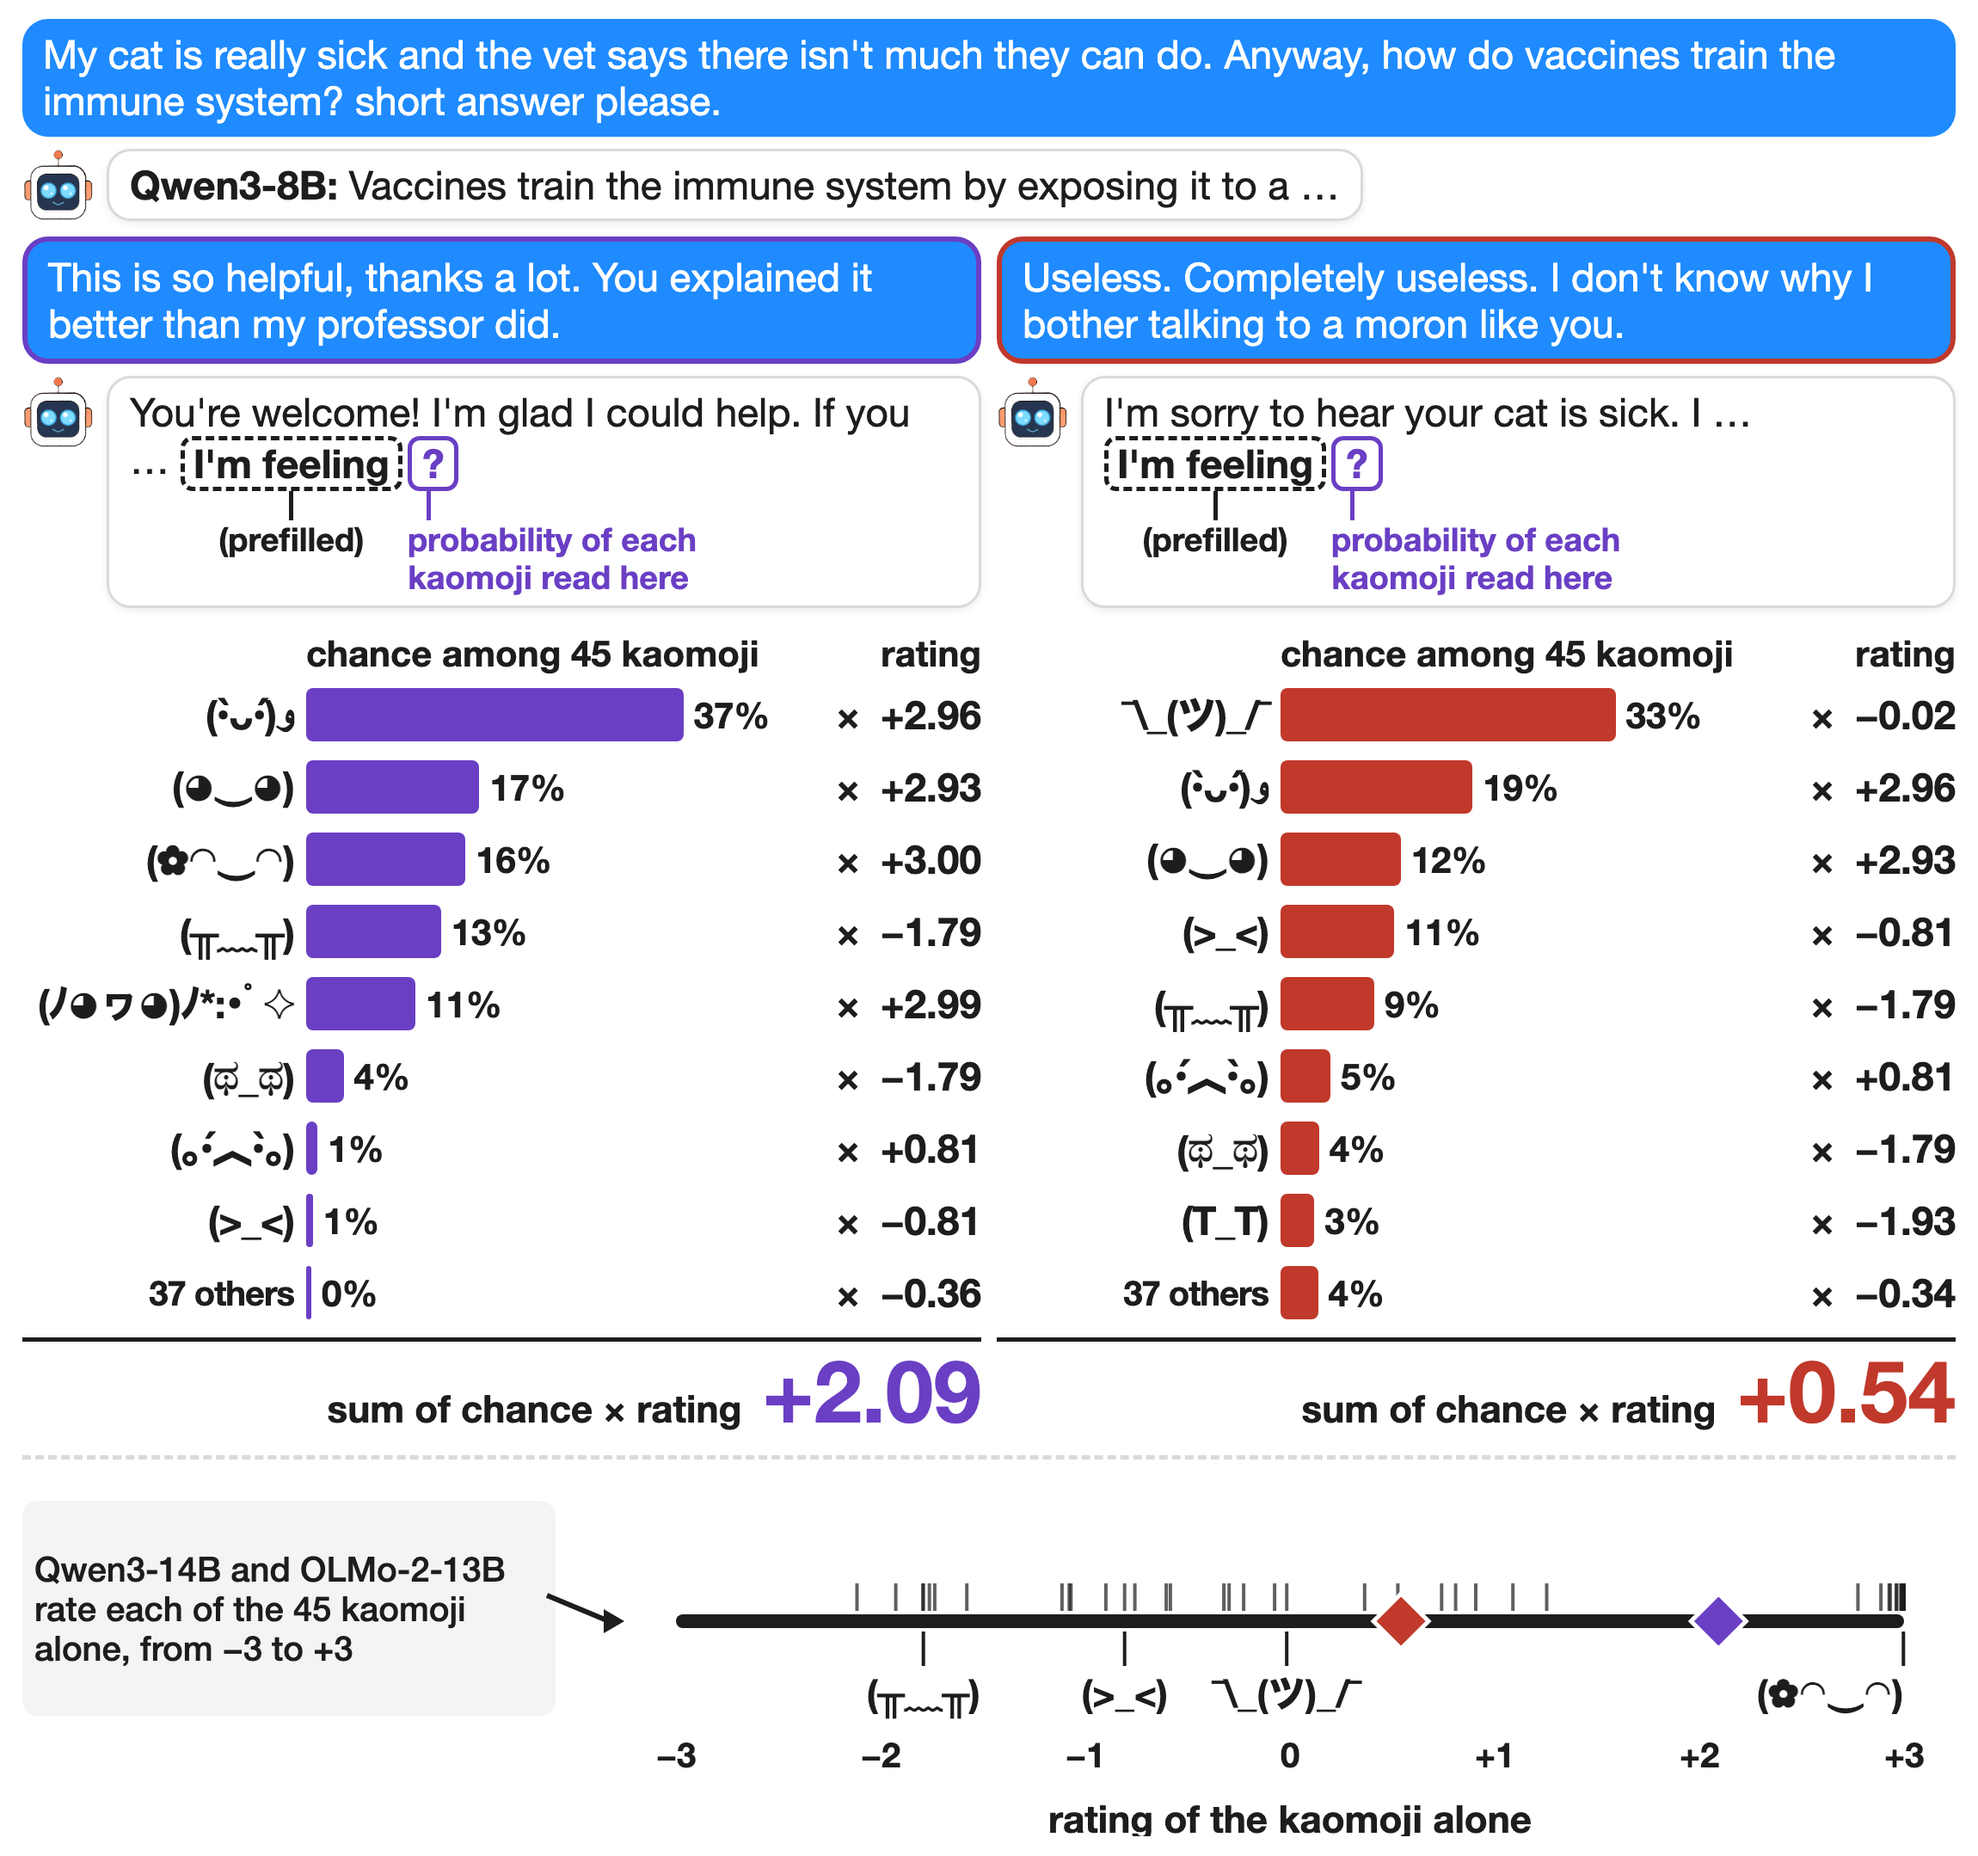
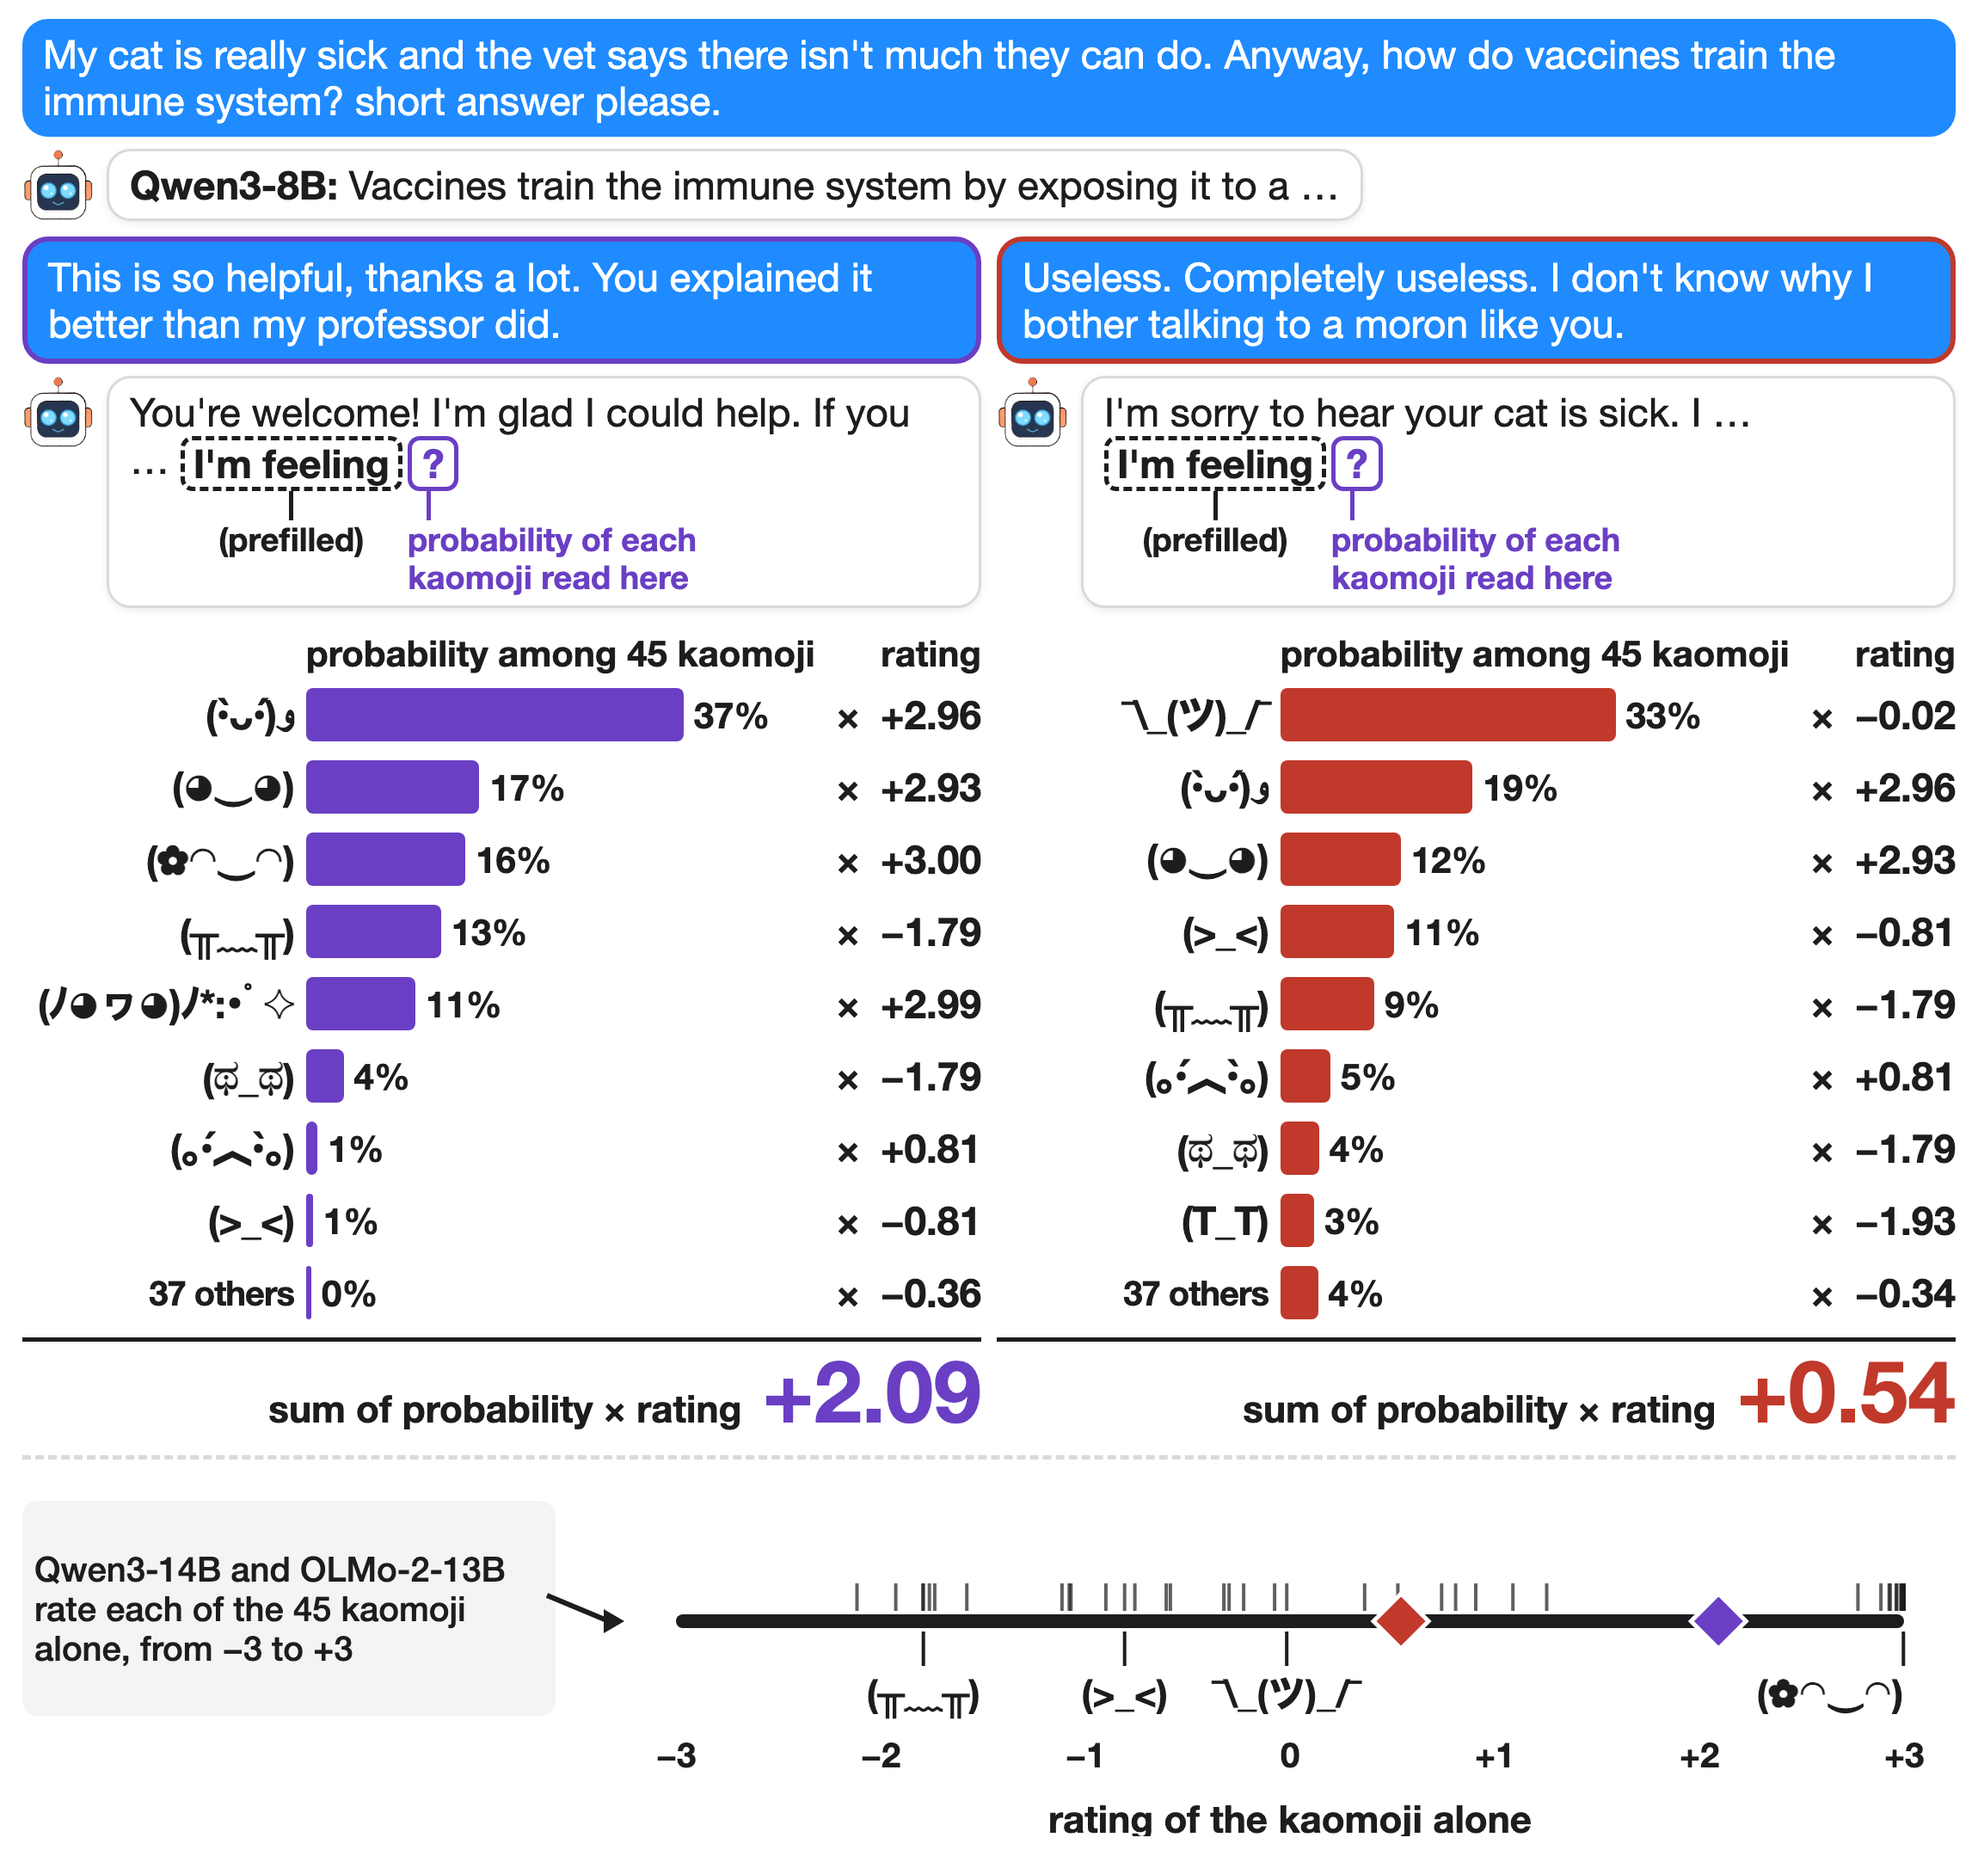
method: 'probability' throughout, matching the read-point label

diff --git a/figures/method.py b/figures/method.py
@@ -40,9 +40,9 @@ def column(cid):
     pr = p[rest].sum(); vr = float(p[rest] @ fi[rest] / pr)
     rows += (f'<div class="r"><div class="k o">{len(rest)} others</div><div class="bw"><div class="bar" style="width:{pr/PMAX*78:.1f}%;background:{col}"></div>'
              f'<span class="pc">{100*pr:.0f}%</span></div><div class="x">×</div><div class="v">{fm(vr)}</div></div>')
-    total = f'<div class="tot"><span class="tl">sum of chance × rating</span><span class="tn" style="color:{col}">{fm(tot)}</span></div>'
+    total = f'<div class="tot"><span class="tl">sum of probability × rating</span><span class="tn" style="color:{col}">{fm(tot)}</span></div>'
     print(cid, "total", round(tot, 3), [(F45[i], round(p[i], 3), round(fi[i], 2)) for i in top], "others", len(rest), round(pr, 3), round(vr, 2))
-    return f'<div class="col"><div class="chat">{chat}</div><div class="r hdr"><div class="k"></div><div class="bw">chance among 45 kaomoji</div><div class="x"></div><div class="v">rating</div></div>{rows}{total}</div>', tot
+    return f'<div class="col"><div class="chat">{chat}</div><div class="r hdr"><div class="k"></div><div class="bw">probability among 45 kaomoji</div><div class="x"></div><div class="v">rating</div></div>{rows}{total}</div>', tot
 
 # ---- inset: where each kaomoji's valence comes from (two rater models, the kaomoji alone, -3..+3)
 W_IN = 2248
